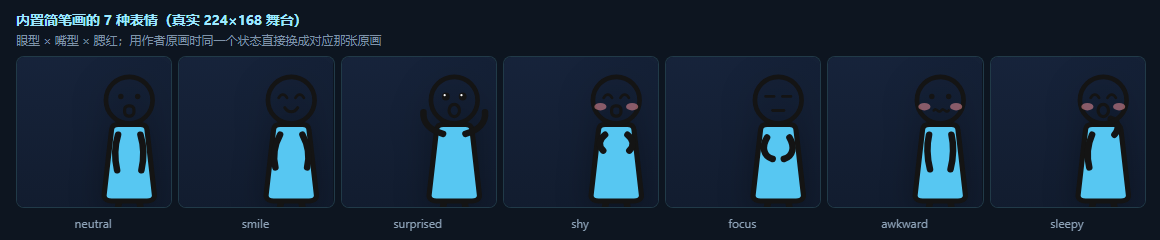
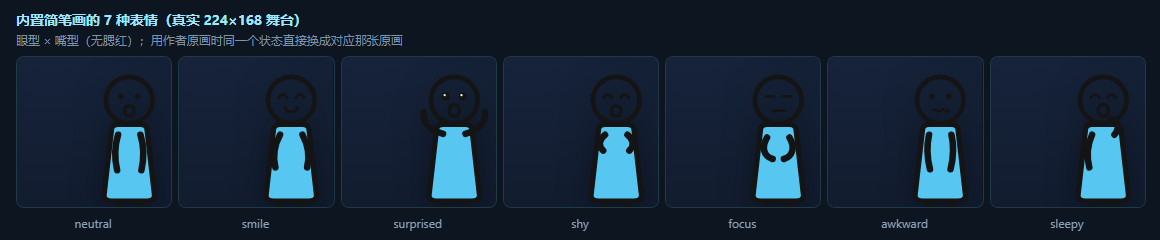
fix(简笔画): 删掉"雷霆腮红"（无腮红的极简才是这套画风的本意）
用户看到 7 表情对照图后指出那两片粉色："这个雷霆腮红是不是需要的！！"

- `EXPRESSIONS` 里的 `blush` 字段整个删掉，`simpleFace()` 也不再拼腮红标记
- 判定依据：**作者那套简笔画本来就只有点眼 + 小方嘴**，那片粉圆是我自己加的，
  而且又大又艳（rx 6.5 / ry 4，不透明度 0.5，画在一个 50px 的头上）
- 去掉后 7 种表情**依然两两可辨**：任意两个表情至少眼型或嘴型有一个不同
  （neutral 点眼+方嘴 / smile 笑眼+上扬 / surprised 放大眼+张嘴 / shy 笑眼+方嘴 /
   focus 平直眼+直线 / awkward 点眼+波浪 / sleepy 笑眼+张嘴）
- 文档同步：architecture §6.7 标题与表格去掉"腮红"一列，并在那里记下这次判断
  （"极简才是这套画风的本意"）；README 功能表同步；重出 expressions 文档图。

两套检查全过（25/25 + 迁移 + 原画 + 插件侧）。

diff --git a/lib/client.js b/lib/client.js
@@ -469,19 +469,21 @@ window.__ModuleLoader__.load({
            ------------------------------------------------------------------
            词汇取自 _refs 下「风格-成熟」与「风格-简笔」两个目录里按情绪命名的参考图
            （尴尬 / 吃惊 / 委屈 / 无语 / 祈福 / 鼓励 / 撒娇 / 打哈欠 / 害羞 / 宕机 / 莞尔一笑）。
-           表情 = **眼型 + 嘴型 + 是否腮红**；两种画风各自实现同一套词汇，
-           所以换画风时表情语义不变（smile 在两边都是"笑眼 + 上扬嘴"）。
+           表情 = **眼型 + 嘴型**；只写一套五官构造器。
            只替换 <g class="hf-face"> 的内容，不动其它部件 ——
            这样换表情不会重启 bob/摆尾那些 CSS 动画。
            ============================================================ */
         var EXPRESSIONS = {
-          neutral: { eyes: "plain", mouth: "small", blush: false }, // 平常
-          smile: { eyes: "arc", mouth: "smile", blush: false }, // 莞尔一笑
-          surprised: { eyes: "wide", mouth: "open", blush: false }, // 吃惊
-          shy: { eyes: "arc", mouth: "small", blush: true }, // 害羞
-          focus: { eyes: "line", mouth: "flat", blush: false }, // 认真工作
-          awkward: { eyes: "plain", mouth: "wavy", blush: true }, // 尴尬 / 无语
-          sleepy: { eyes: "arc", mouth: "open", blush: true } // 打哈欠
+          /* 刻意**没有腮红**：作者那套简笔画本来就只有点眼 + 小方嘴，
+             而自己加的两片粉圆被用户吐槽成"雷霆腮红" —— 极简才是这套画风的本意。
+             去掉腮红后 7 种表情依然两两可辨（眼型/嘴型各不同）。 */
+          neutral: { eyes: "plain", mouth: "small" }, // 平常
+          smile: { eyes: "arc", mouth: "smile" }, // 莞尔一笑
+          surprised: { eyes: "wide", mouth: "open" }, // 吃惊
+          shy: { eyes: "arc", mouth: "small" }, // 害羞
+          focus: { eyes: "line", mouth: "flat" }, // 认真工作
+          awkward: { eyes: "plain", mouth: "wavy" }, // 尴尬 / 无语
+          sleepy: { eyes: "arc", mouth: "open" } // 打哈欠
         };
         /* 状态 → 表情；holdMs 到点后回到"静息表情" */
         var STATE_EXPRESSION = {
@@ -567,11 +569,7 @@ window.__ModuleLoader__.load({
         }
         function simpleFace(name) {
           var e = EXPRESSIONS[name] || EXPRESSIONS.neutral;
-          var blush = e.blush
-            ? '<ellipse cx="99" cy="49" rx="6.5" ry="4" fill="#ff9aa2" opacity="0.5"/>' +
-              '<ellipse cx="133" cy="49" rx="6.5" ry="4" fill="#ff9aa2" opacity="0.5"/>'
-            : "";
-          return blush + simpleEyes(e.eyes) + simpleMouth(e.mouth);
+          return simpleEyes(e.eyes) + simpleMouth(e.mouth);
         }
 
         /* ---------------------------------------------------------------------

diff --git a/docs/architecture.md b/docs/architecture.md
@@ -294,23 +294,27 @@ HF-MIG verdict=PASS
 
 ---
 
-### 6.7 表情系统（眼型 × 嘴型 × 腮红）
+### 6.7 表情系统（眼型 × 嘴型）
 
 ![内置简笔画的 7 种表情](shots/expressions.png)
 
 词汇取自 `_refs/xiaolan/` 下「风格-成熟」与「风格-简笔」两个目录里按情绪命名的参考图。
-一个表情 = **眼型 + 嘴型 + 是否腮红**，只在内置简笔画 SVG 上生效
+一个表情 = **眼型 + 嘴型**，只在内置简笔画 SVG 上生效
 （用作者原画时，换状态直接换那张原画，见 §6.8）：
 
-| 表情 | 眼型 | 嘴型 | 腮红 | 用在哪 |
-|---|---|---|---|---|
-| `neutral` 平常 | `plain` 点眼 / 瞳眼 | `small` 小方嘴 | — | 静息 |
-| `smile` 莞尔 | `arc` ∩ 笑眼 | `smile` 上扬 | — | 首次出现 |
-| `surprised` 吃惊 | `wide` 放大 | `open` 张嘴 | — | 拖动中 |
-| `shy` 害羞 | `arc` | `small` | ✓ | 被点击 |
-| `focus` 认真 | `line` 平直 | `flat` 直线 | — | 一轮对话结束 |
-| `awkward` 尴尬 | `plain` | `wavy` 波浪 | ✓ | 松手落位 |
-| `sleepy` 打哈欠 | `arc` | `open` | ✓ | 空闲久了（与平常轮换） |
+| 表情 | 眼型 | 嘴型 | 用在哪 |
+|---|---|---|---|
+| `neutral` 平常 | `plain` 点眼 / 瞳眼 | `small` 小方嘴 | 静息 |
+| `smile` 莞尔 | `arc` ∩ 笑眼 | `smile` 上扬 | 首次出现 |
+| `surprised` 吃惊 | `wide` 放大 | `open` 张嘴 | 拖动中 |
+| `shy` 害羞 | `arc` | `small` | 被点击 |
+| `focus` 认真 | `line` 平直 | `flat` 直线 | 一轮对话结束 / **打字中 / 一轮进行中** |
+| `awkward` 尴尬 | `plain` | `wavy` 波浪 | 松手落位 |
+| `sleepy` 打哈欠 | `arc` | `open` | 空闲久了（与平常轮换） |
+
+> 📌 **刻意没有腮红**。第一版给 `shy`/`awkward`/`sleepy` 各加了两片半透明粉圆，
+> 被用户吐槽成"**雷霆腮红**" —— 而作者那套简笔画本来就只有点眼 + 小方嘴，
+> **极简才是这套画风的本意**。去掉后 7 种表情依然两两可辨（眼型或嘴型必有其一不同）。
 
 状态 → 表情的映射集中在 `STATE_EXPRESSION` 一张表里，改行为只改这张表；
 临时表情带 `holdMs`，到点自动回到"静息表情"（`restingExpression`）。

diff --git a/README.md b/README.md
@@ -48,9 +48,9 @@
   （内置 SVG：无发圆头 + 点眼 + 蓝长衫）。拿不到原画时自动退回简笔画，不会白屏
 - **表情随状态变化**：`平常 / 莞尔 / 吃惊 / 害羞 / 认真 / 尴尬 / 打哈欠` 七种表情，按状态
   自动切换（空闲久了会打哈欠、被点会害羞、一轮对话结束会认真起来）；用内置简笔画时由
-  **眼型 × 嘴型 × 腮红**组合出来，用作者原画时直接换成对应那张原画。
+  **眼型 × 嘴型**组合出来（**无腮红** —— 作者那套简笔画本来就极简），用作者原画时直接换成对应那张原画。
   **打字时 / 一轮进行中 → 认真工作**
-  词汇取自参考图（`_refs/xiaolan/` 里按情绪命名的那 21 张），组合方式是**眼型 × 嘴型 × 腮红**
+  词汇取自参考图（`_refs/xiaolan/` 里按情绪命名的那 21 张）
 - **作者原画（可选，本项目正在用）**：用 `scripts/cutout-pet.mjs` 把参考图抠成透明 PNG
   放进 `assets/`，再写一份 `assets/art-manifest.json`（**状态 → 文件名**），角色就换成
   **作者本人的画**，并按状态自动换图（首次出现 / 被点 / 拖动 / 落手 / 一轮结束）。
